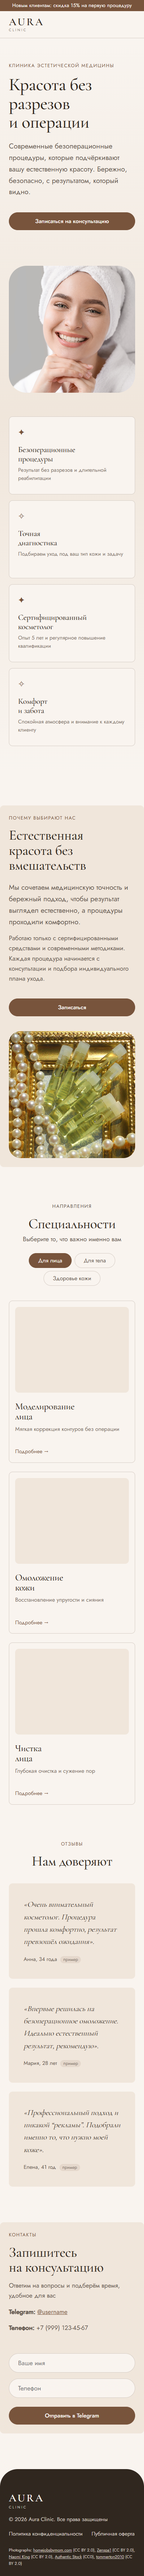
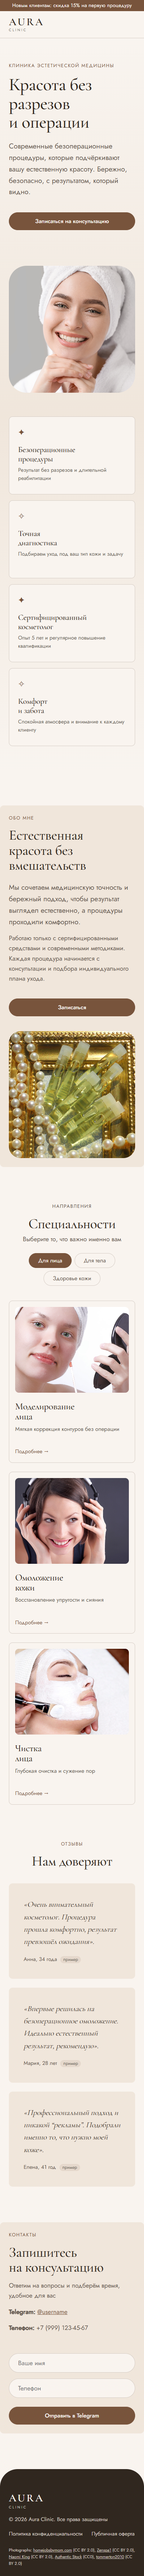
лендинг: исправление доступности, заголовков и README (пункты 7-14 аудита)

Changed region(s): [[0.0923, 0.498, 0.8923, 0.6847]]

diff --git a/index.html b/index.html
@@ -20,10 +20,10 @@
   <!-- Шапка -->
   <header class="nav">
     <div class="container">
-      <a href="#" class="logo" aria-label="Aura — на главную">AURA<span class="logo-sub">clinic</span></a>
+      <a href="#" class="logo">AURA<span class="logo-sub">clinic</span></a>
       <nav aria-label="Навигация">
         <ul class="nav-links">
-          <li><a href="#specialties">Услуги</a></li>
+          <li><a href="#services">Услуги</a></li>
           <li><a href="#about">Обо мне</a></li>
           <li><a href="#contacts">Контакты</a></li>
         </ul>
@@ -32,6 +32,7 @@
     </div>
   </header>
 
+  <main>
   <!-- Герой -->
   <section class="hero">
     <div class="container hero-inner">
@@ -52,22 +53,22 @@
     <div class="container strip-grid">
       <div class="strip-item">
         <span class="strip-icon">✦</span>
-        <h3>Безоперационные<br>процедуры</h3>
+        <h2>Безоперационные<br>процедуры</h2>
         <p>Результат без разрезов и длительной реабилитации</p>
       </div>
       <div class="strip-item">
         <span class="strip-icon">✧</span>
-        <h3>Точная<br>диагностика</h3>
+        <h2>Точная<br>диагностика</h2>
         <p>Подбираем уход под ваш тип кожи и задачу</p>
       </div>
       <div class="strip-item">
         <span class="strip-icon">✦</span>
-        <h3>Сертифицированный<br>косметолог</h3>
+        <h2>Сертифицированный<br>косметолог</h2>
         <p>Опыт 5 лет и регулярное повышение квалификации</p>
       </div>
       <div class="strip-item">
         <span class="strip-icon">✧</span>
-        <h3>Комфорт<br>и забота</h3>
+        <h2>Комфорт<br>и забота</h2>
         <p>Спокойная атмосфера и внимание к каждому клиенту</p>
       </div>
     </div>
@@ -77,7 +78,7 @@
   <section class="about" id="about">
     <div class="container about-inner">
       <div class="about-text">
-        <p class="eyebrow-note">Почему выбирают нас</p>
+        <p class="eyebrow-note">Обо мне</p>
         <h2>Естественная красота без вмешательств</h2>
         <p class="lead">Мы сочетаем медицинскую точность и бережный подход, чтобы результат выглядел естественно, а процедуры проходили комфортно.</p>
         <p>Работаю только с сертифицированными средствами и современными методиками. Каждая процедура начинается с консультации и подбора индивидуального плана ухода.</p>
@@ -97,10 +98,10 @@
         <h2>Специальности</h2>
         <p>Выберите то, что важно именно вам</p>
       </div>
-      <div class="tabs" role="tablist" aria-label="Специальности">
-        <button type="button" class="tab active" role="tab" aria-selected="true" data-tab="face">Для лица</button>
-        <button type="button" class="tab" role="tab" aria-selected="false" data-tab="body">Для тела</button>
-        <button type="button" class="tab" role="tab" aria-selected="false" data-tab="health">Здоровье кожи</button>
+      <div class="tabs" role="group" aria-label="Специальности">
+        <button type="button" class="tab active" aria-pressed="true" data-tab="face">Для лица</button>
+        <button type="button" class="tab" aria-pressed="false" data-tab="body">Для тела</button>
+        <button type="button" class="tab" aria-pressed="false" data-tab="health">Здоровье кожи</button>
       </div>
       <div class="services-grid" id="tab-face">
         <article class="service-card">
@@ -170,10 +171,12 @@
     </div>
   </section>
 
+  </main>
+
   <!-- Футер -->
   <footer>
     <div class="container">
-      <a href="#" class="logo" aria-label="Aura — на главную">AURA<span class="logo-sub">clinic</span></a>
+      <a href="#" class="logo">AURA<span class="logo-sub">clinic</span></a>
       <p>© 2026 Aura Clinic. Все права защищены</p>
       <div class="footer-links">
         <a href="#">Политика конфиденциальности</a>

diff --git a/script.js b/script.js
@@ -36,12 +36,12 @@ document.addEventListener('DOMContentLoaded', () => {
   const creditEl = document.querySelector('[data-credits]');
   if (creditEl) creditEl.innerHTML = 'Photographs: ' + Object.values(credits).join(', ');
 
-  // Tabs (visual only — same content for each specialization)
+  // Tabs (visual filter — same cards shown for each specialization)
   document.querySelectorAll('.tab').forEach(btn => {
     btn.addEventListener('click', () => {
-      document.querySelectorAll('.tab').forEach(t => { t.classList.remove('active'); t.setAttribute('aria-selected', 'false'); });
+      document.querySelectorAll('.tab').forEach(t => { t.classList.remove('active'); t.setAttribute('aria-pressed', 'false'); });
       btn.classList.add('active');
-      btn.setAttribute('aria-selected', 'true');
+      btn.setAttribute('aria-pressed', 'true');
     });
   });
 
@@ -51,7 +51,7 @@ document.addEventListener('DOMContentLoaded', () => {
     const name = this.querySelector('input[type="text"]').value;
     const phone = this.querySelector('input[type="tel"]').value;
     const text = `Здравствуйте! Хочу записаться на консультацию.\nИмя: ${name}\nТелефон: ${phone}`;
-    navigator.clipboard.writeText(text).then(() => {
+    navigator.clipboard.writeText(text).catch(() => {}).then(() => {
       window.open('https://t.me/username', '_blank');
     });
   });

diff --git a/styles.css b/styles.css
@@ -8,7 +8,7 @@
   --color-paper-3: oklch(89% 0.022 65);
   --color-ink: oklch(28% 0.02 60);
   --color-ink-2: oklch(45% 0.02 60);
-  --color-muted: oklch(55% 0.02 60);
+  --color-muted: oklch(48% 0.02 60);
   --color-rule: oklch(85% 0.015 65);
   --color-accent: oklch(48% 0.06 55);
   --color-accent-ink: oklch(98% 0.005 70);
@@ -74,7 +74,7 @@ h1, h2, h3 { font-family: var(--font-display); font-weight: 500; letter-spacing:
 .strip-grid { display: grid; grid-template-columns: repeat(4, 1fr); gap: var(--space-md); }
 .strip-item { background: var(--color-paper); border: 1px solid var(--color-rule); border-radius: var(--radius-card); padding: var(--space-lg); min-height: 210px; }
 .strip-icon { font-size: 1.4rem; color: var(--color-accent); }
-.strip-item h3 { font-size: 1.35rem; margin: var(--space-md) 0 var(--space-sm); line-height: 1.15; }
+.strip-item h2 { font-size: 1.35rem; margin: var(--space-md) 0 var(--space-sm); line-height: 1.15; }
 .strip-item p { font-size: 0.9rem; color: var(--color-muted); line-height: 1.5; }
 
 /* About — rounded section */

diff --git a/README.md b/README.md
@@ -10,27 +10,27 @@
 
 - HTML5 + CSS3 + vanilla JS
 - Нет фреймворков и сборщиков
-- Дизайн: Hallmark, тема Studio (светлая печатная бумага, серифные заголовки, оранжевый акцент)
+- Дизайн: Montclair (пудрово-розовая палитра, скруглённые секции, Cormorant Garamond + Jost)
 
 ## Блоки
 
-1. Первый экран: имя, обещание результата, кнопка «Записаться» → Telegram
-2. Обо мне: опыт, подход, сертификаты
-3. Услуги: 4 карточки с ценами (пример-заглушки)
-4. Фото процесса: 4 фото с подписями
+1. Первый экран: обещание результата, кнопка «Записаться» → Telegram
+2. Полоса преимуществ: безоперационные процедуры, диагностика, сертификаты, комфорт
+3. Обо мне: цель, философия, подход, сертификаты
+4. Услуги: 3 карточки (пример-заглушки)
 5. Отзывы: 3 отзыва-заглушки с пометкой «пример»
 6. Контакты + форма: имя, телефон → копирование текста и переход в Telegram
 7. Футер: копирайт, кредиты фото
 
 ## Фото
 
-Реальные фотографии из Flickr, лицензия **CC BY 2.0** (коммерческое использование разрешено, требуется указание автора). Авторы указаны в футере страницы в блоке `data-credits`.
+Фотографии с лицензией **CC BY 2.0** (Flickr) и **CC0** (StockSnap). Авторы и ссылки указаны в футере страницы в блоке `data-credits`.
 
-Файлы: `images/about.jpg`, `images/process-consultation.jpg`, `images/process-mask.jpg`, `images/process-finish.jpg`, `images/process-result.jpg`.
+Файлы: `images/hero-spa.jpg`, `images/about.jpg`, `images/process-consultation.jpg`, `images/process-result.jpg`, `images/beauty-face.jpg`.
 
 ## Деплой
 
-GitHub Pages: https://mirsun-lgtm.github.io/landing_portfolio/
+GitHub Pages: https://mirksun-lgtm.github.io/landing_portfolio/
 
 Источник: ветка `main`, папка `/ (root)`. Файл `.nojekyll` отключает обработку Jekyll.
 
@@ -45,6 +45,7 @@ GitHub Pages: https://mirsun-lgtm.github.io/landing_portfolio/
 
 ## Проверки
 
-- Hallmark sloplint: 0 FAIL
 - Адаптив: 1024 / 768 / 480px, горизонтального скролла нет
 - SEO: title, description, один H1, alt у всех фото
+- W3C Nu Validator: 0 ошибок
+- Lighthouse: Performance 100, SEO 100, Best Practices 100
